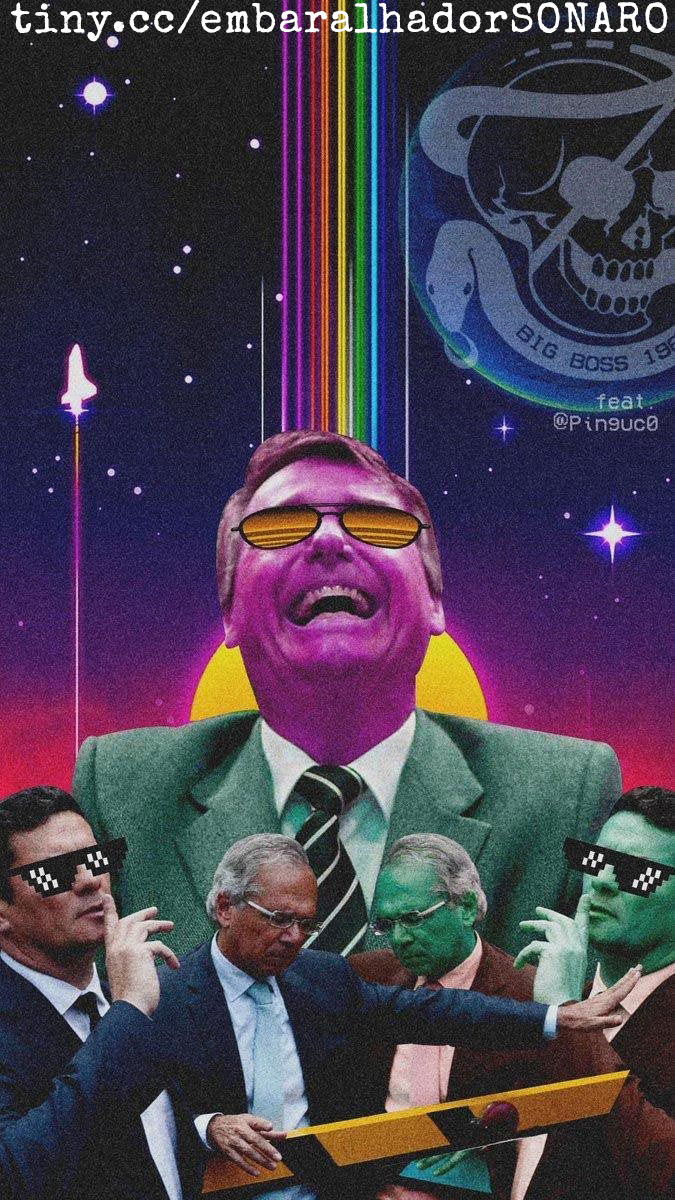
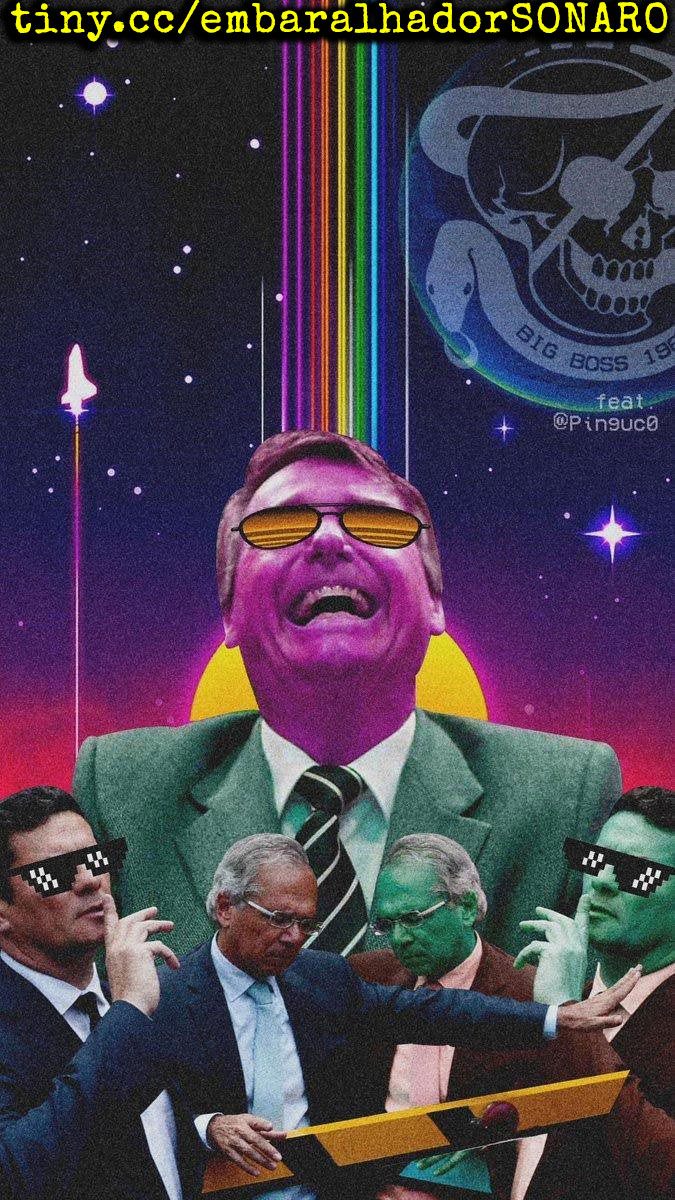
vlw Pin9uc0    ABc

Changed region(s): [[0.0, 0.0, 0.9956, 0.0617]]

diff --git a/index.html b/index.html
@@ -152,7 +152,7 @@ ctx.font = "60px Special Elite";
 ctx.shadowColor = "rgba(0,0,0,0.9)";
 
     // var naimg = "marco";
-wrapText(ctx, pnome.toUpperCase(), 50, 100, 575, 65);
+wrapText(ctx, pnome.toUpperCase(), 50, 130, 575, 65);
 // wrapText(ctx, snome.toUpperCase(), 50, 800, 1100, 90);
 
     // ctx.fillText(pnome.toUpperCase(),50,900);
